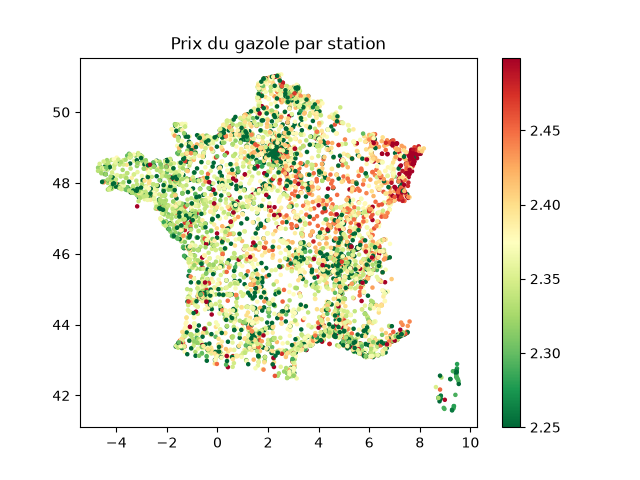
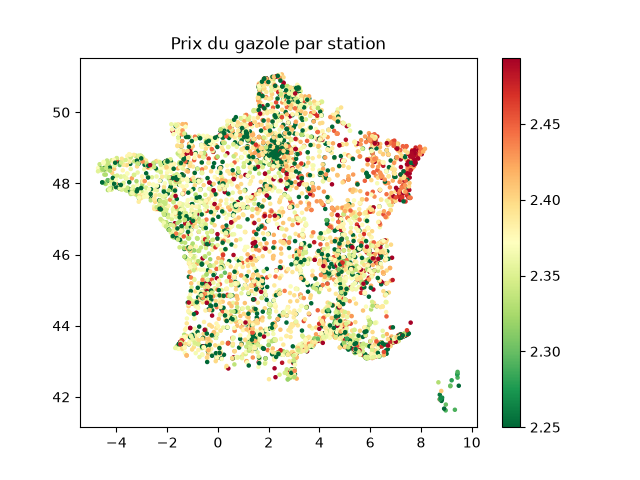
elarging the analyse to when to do the gazole in order to save money

diff --git a/src/analyse.py b/src/analyse.py
@@ -77,3 +77,20 @@ proches = proches.sort_values("gazole_prix")
 
 print(f"{len(proches)} stations à moins de {RAYON_KM} km de Cergy")
 print(proches[["ville", "adresse", "type_route", "gazole_prix", "distance_km"]].head(10).round(2))
+
+
+#Quand faire le plein d'essence ?
+conn = sqlite3.connect("data/carburants.db")
+df = pd.read_sql("SELECT id, date_collecte, gazole_prix FROM stations", conn)
+conn.close()
+df["date_collecte"] = pd.to_datetime(df["date_collecte"], utc=True).dt.tz_convert("Europe/Paris")
+df["jour"]=df["date_collecte"].dt.day_name()
+df["heure"]=df["date_collecte"].dt.hour
+par_jour=df.groupby("jour")["gazole_prix"].agg(["mean", "count"])
+par_heure=df.groupby("heure")["gazole_prix"].agg(["mean", "count"])
+par_jour=par_jour.sort_values("mean")
+par_heure=par_heure.sort_values("mean")
+par_jour["mean"]=par_jour["mean"].round(3)
+par_heure["mean"]=par_heure["mean"].round(3)
+print(f"Les heures où le carburant est le moins cher sont : {par_heure.head(24)} \n")
+print(f"Les jours où le carburant est le moins cher sont : {par_jour.head(7)} \n")
